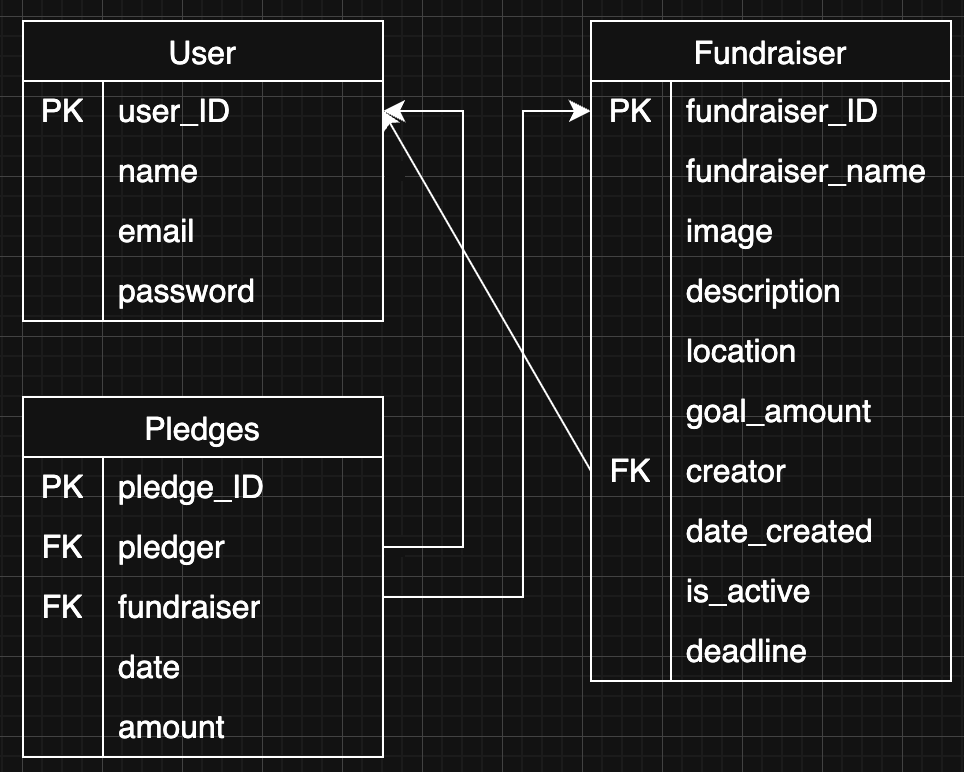
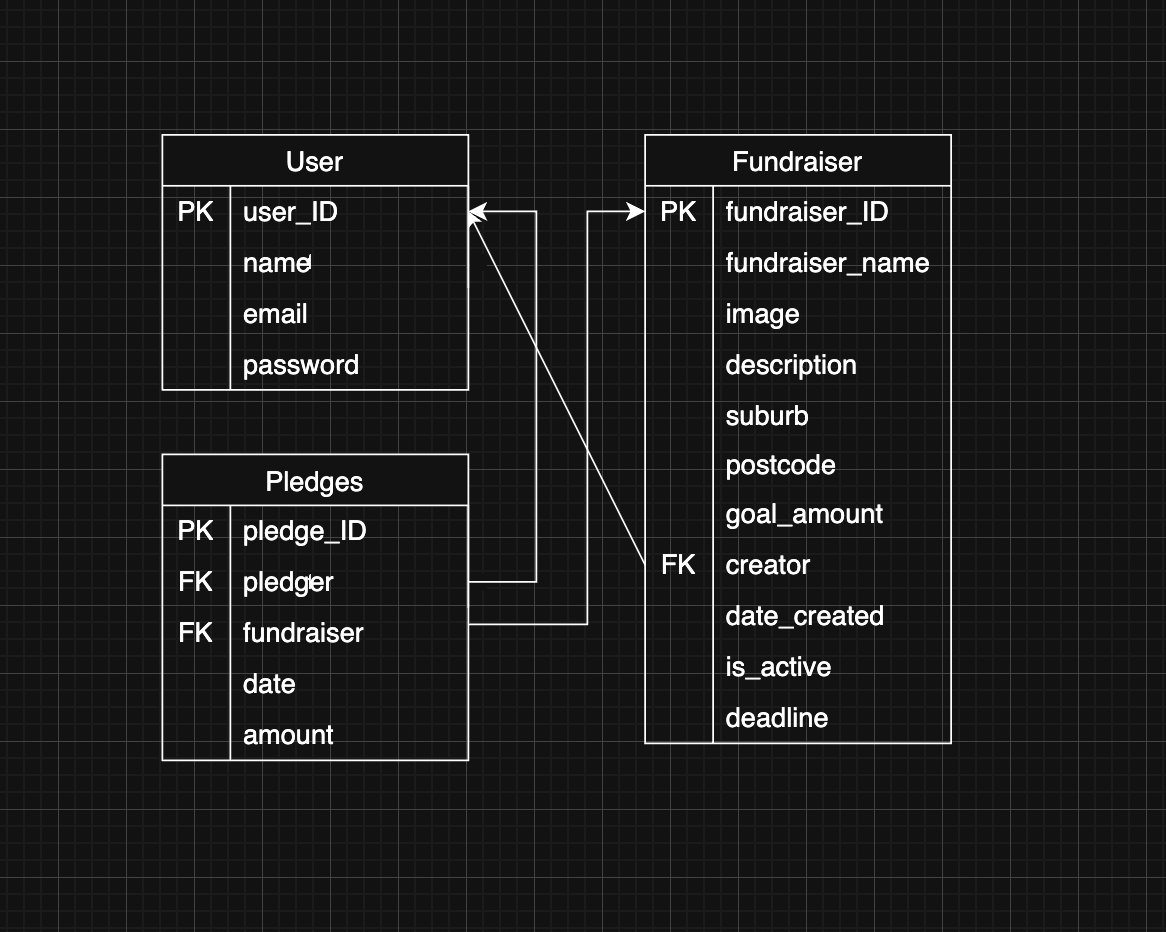
finished project and readme

diff --git a/README.md b/README.md
@@ -85,15 +85,28 @@ User stories:
 
 ### Submission
 
-- Link to the deployed project: https://crowdfunding-app-production-dc1723c10be4.herokuapp.com/
+- Link to the deployed project: https://crowdfunding-app-production-dc1723c10be4.herokuapp.com/fundraisers/
 - A screenshot of Insomnia, demonstrating a successful POST method for any endpoint.
   - Create a user
   ![screenshot create a user](/images/POST_create_user.png)
-  - 
+  - Create a fundraiser
+  ![screenshot create a fundraiser](/images/POST_create_fundraiser.png)
+  - Create a pledge
+  ![screenshot create a pledge](/images/POST_create_pledge.png)
 - A screenshot of Insomnia, demonstrating a successful GET method for any endpoint.
   - Get all users
   ![screenshot of all users](/images/GET_all_users.png)
+  - Get all fundraisers
+  ![screenshot of all fundraisers](/images/GET_all_fundraisers.png)
 - A screenshot of Insomnia, demonstrating a token being returned.
   ![screenshot generate token](/images/POST_generate_token.png)
-- Step by step instructions for how to register a new user and create a new fundraiser (i.e. endpoints and body data).</br>
-- Your refined API specification and Database Schema.
+- Step by step instructions for how to register a new user and create a new fundraiser (i.e. endpoints and body data).
+  1. Register a new user 
+    - endpoint: POST /users/
+    - body data example:</br>
+      ![body data example of creating a new user](/images/body_data_example_create_user.png)
+  2. Create a new fundraiser
+    - endpoint: POST /fundraisers/
+    - body data example: </br>
+      ![body data example of creating a new fundraiser](/images/body_data_example_create_fundraiser.png)
+- Your refined API specification and Database Schema. (see above)
